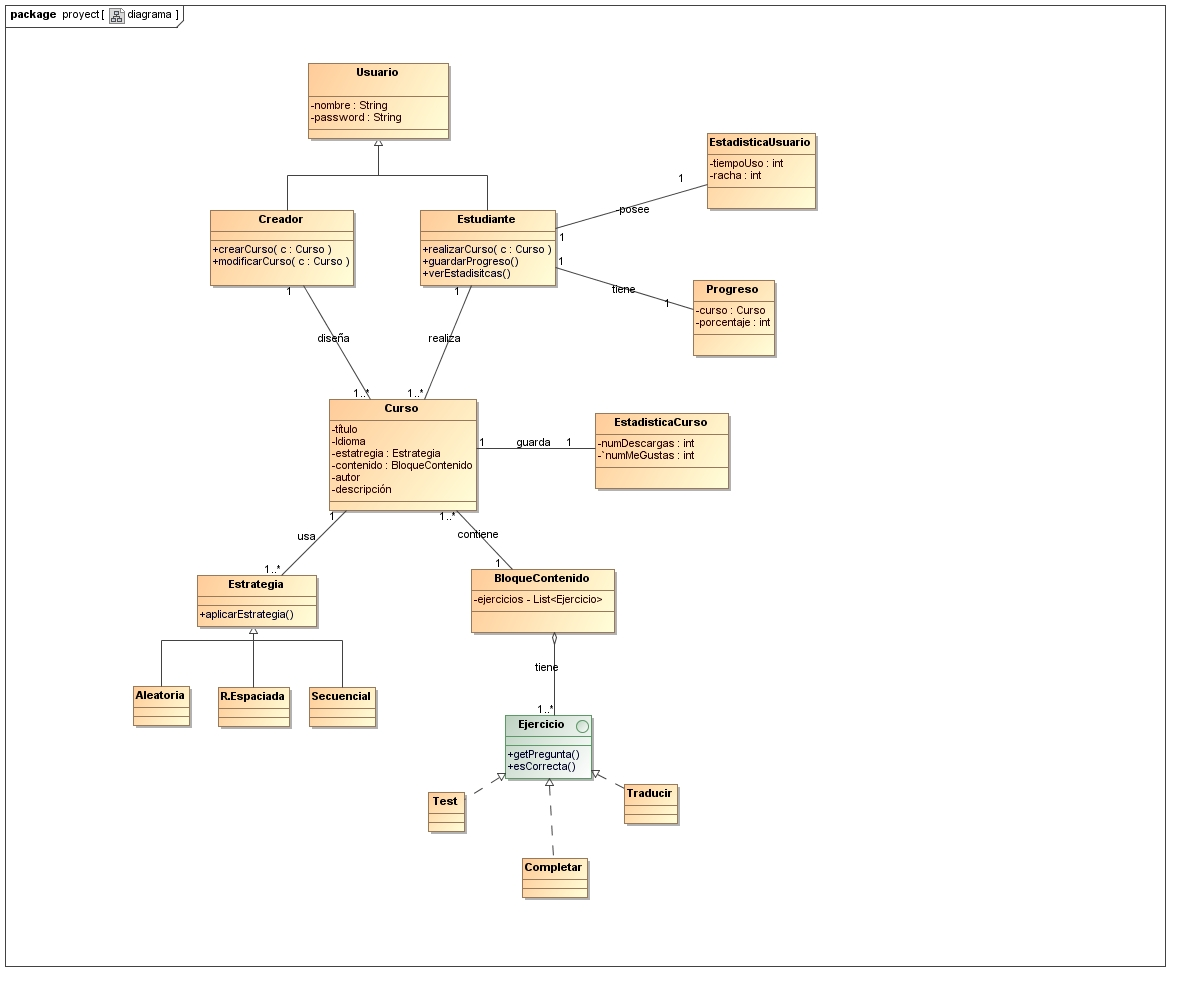
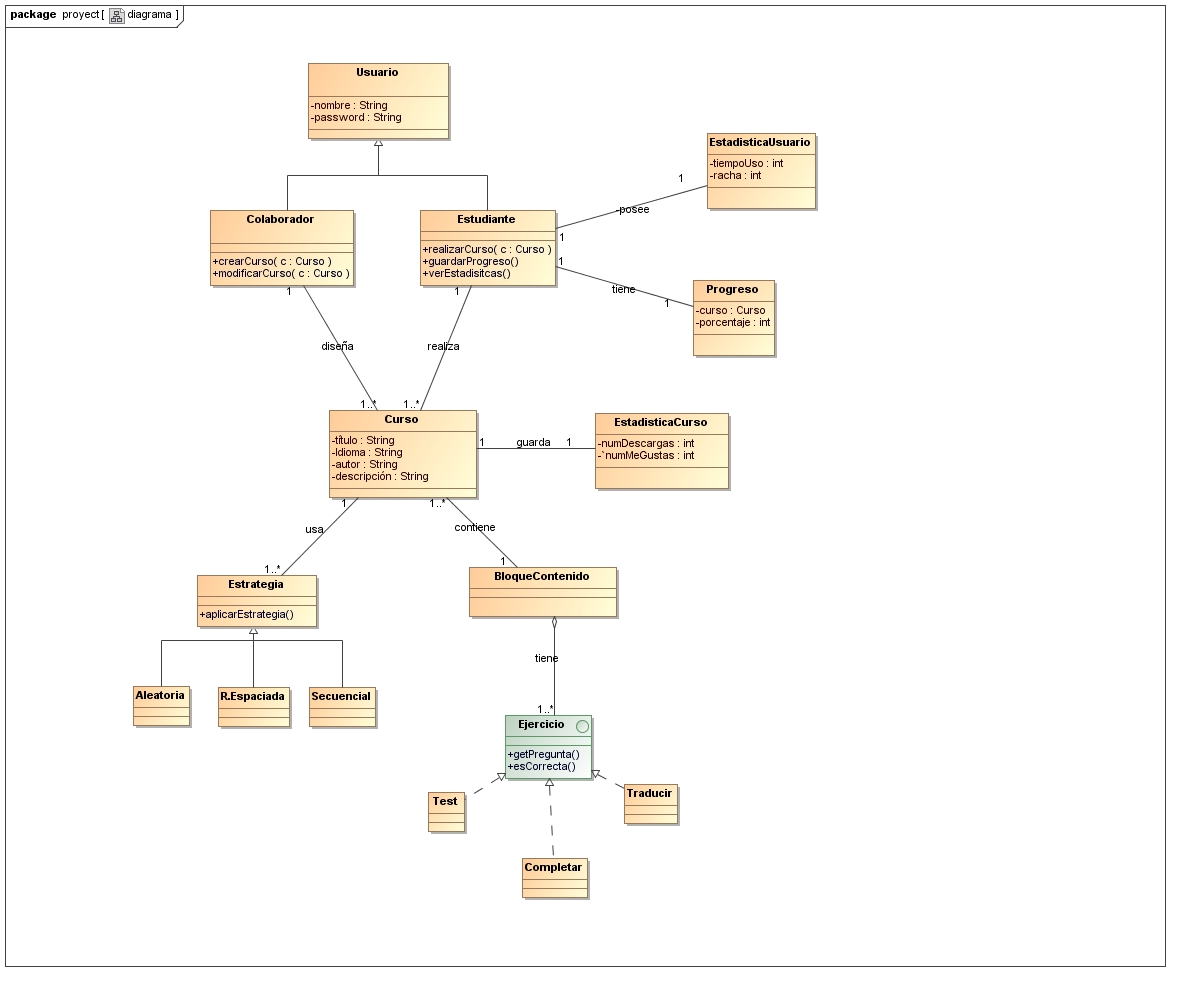
Modelo de dominio Modificado de forma correcta

diff --git a/README.md b/README.md
@@ -2,7 +2,7 @@
 
 ### DESCRIPCIÓN 
 
-**LearningApp** es una aplicación de aprendizaje de idiomas totalmente gratuita desarrollada por los alumnos; **Mohammed Amrou Labied Nasser**, **Sergio García García** y **Jorge Fernandéz Corcoles**, bajo la supervisión del profesor **José Antonio García Díaz**.
+**LearningApp** es una aplicación de aprendizaje de idiomas totalmente gratuita desarrollada por los alumnos; **Mohammed Amrou Labied Nasser**, **Sergio García García** y **Jorge Fernandéz Corcoles**, bajo la supervisión del profesor **Antonio Lopéz Martinéz Carrasco**.
 
 El propósito de LearningApp es facilitar el aprendizaje de idiomas como el inglés, francés o el italiano a través de cursos diseñados tanto por la propia aplicación como por otros usuarios con experiencia en la enseñanza.Esto permite a los usuarios acceder a una gran variedad de materiales adaptados a diferentes niveles y estilos de aprendizaje. 
 
@@ -61,7 +61,7 @@ En este apartado vamos a identificar los requisitos necesarios para el correcto 
 ***Caso de uso:*** Ver el número de me gustas que ha recibido un curso\
 ***Actor:*** Estudiante y Colaborador 
 
-***Caso de uso:*** Mostrar una lista ordenada de los cursos según su el número de likes\
+***Caso de uso:*** Mostrar una lista ordenada de los cursos según el número de likes\
 ***Actor:*** Sistema
 
 ### Diseño
